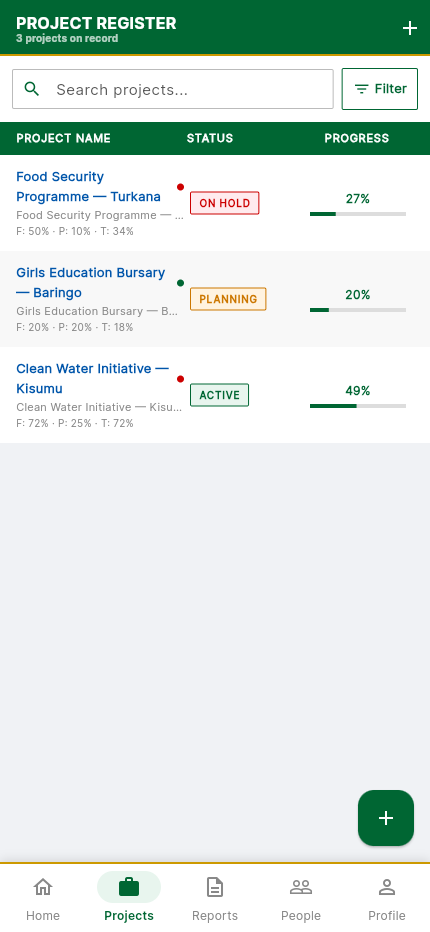
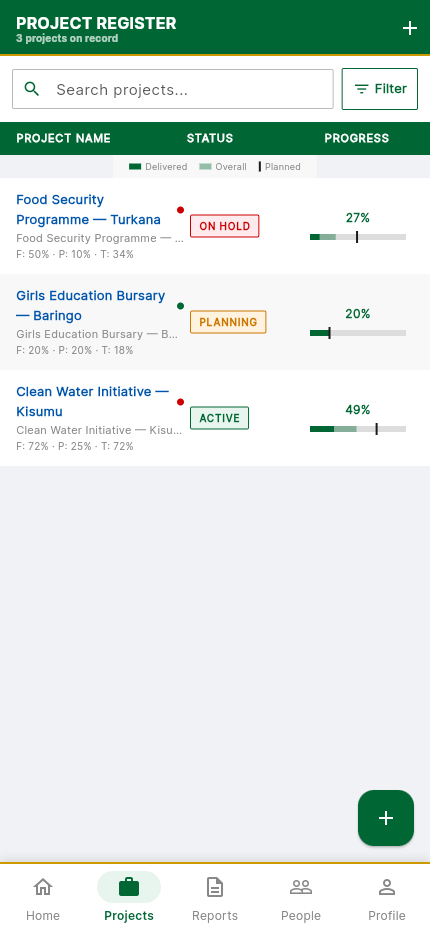
feat: EVM track on project list rows — earned-value band with a planned-value tick
The list bar showed composite progress only. It now draws physical (EV) as its
own band over the composite fill with a tick at planned value, so the tick has
the right quantity to be read against: physical past the tick means ahead of
plan, which is what SPI measures.

Claude-Session: https://claude.ai/code/session_01Bx6DSYntrQAXkWzdDAu9RR

diff --git a/mobile/lib/features/projects/widgets/evm_cards.dart b/mobile/lib/features/projects/widgets/evm_cards.dart
@@ -12,6 +12,161 @@ String formatKes(double value) {
   return 'KES ${value.toStringAsFixed(0)}';
 }
 
+// ── LIST PROGRESS TRACK ────────────────────────────────────────────────────
+
+/// Compact EVM track for list rows: composite fill, the physical (earned
+/// value) segment drawn over it, and a tick at planned value.
+///
+/// The tick is only meaningful against the *physical* segment — SPI is
+/// EV/PV — which is why physical is drawn as its own darker band rather than
+/// letting the composite fill stand in for delivery. Physical past the tick
+/// means ahead of the plan.
+class EvmProgressTrack extends StatelessWidget {
+  final Project project;
+
+  /// Track thickness; the tick overhangs it by [_tickOverhang] either side.
+  final double height;
+
+  static const double _tickOverhang = 3;
+  static const double _tickWidth = 2;
+
+  /// Identifies the planned-value tick, which is absent when PV is 0.
+  static const Key tickKey = Key('evm-planned-tick');
+
+  /// Identifies the earned-value (physical) band.
+  static const Key physicalBandKey = Key('evm-physical-band');
+
+  const EvmProgressTrack({super.key, required this.project, this.height = 6});
+
+  static double _fraction(double percent) => (percent / 100).clamp(0.0, 1.0);
+
+  @override
+  Widget build(BuildContext context) {
+    final composite = project.compositeFraction;
+    final physical = _fraction(project.physicalProgress);
+    final planned = _fraction(project.plannedValueProgress);
+    return Tooltip(
+      message: 'Delivered ${project.physicalProgress.toStringAsFixed(1)}% · '
+          'planned ${project.plannedValueProgress.toStringAsFixed(1)}% · '
+          'overall ${project.progressPercentage.round()}%',
+      child: SizedBox(
+        height: height + _tickOverhang * 2,
+        child: Stack(
+          alignment: Alignment.center,
+          // FractionallySizedBox + Align keep this free of LayoutBuilder,
+          // which cannot compute intrinsics and breaks inside IntrinsicHeight.
+          children: [
+            Container(height: height, color: AppColors.border),
+            _Band(widthFactor: composite, height: height, color: _compositeColor),
+            _Band(
+              key: physicalBandKey,
+              widthFactor: physical,
+              height: height,
+              color: AppColors.primary,
+            ),
+            if (planned > 0)
+              Align(
+                key: tickKey,
+                // -1 pins the tick's left edge to the track's left edge and
+                // +1 its right edge to the right, so it never spills out.
+                alignment: Alignment(planned * 2 - 1, 0),
+                child: Container(
+                  width: _tickWidth,
+                  height: height + _tickOverhang * 2,
+                  color: AppColors.textPrimary,
+                ),
+              ),
+          ],
+        ),
+      ),
+    );
+  }
+
+  /// Composite sits behind the earned-value band, so it is tinted to stay
+  /// visually subordinate to it.
+  static const Color _compositeColor = Color(0x66006633);
+}
+
+class _Band extends StatelessWidget {
+  final double widthFactor;
+  final double height;
+  final Color color;
+
+  const _Band({
+    super.key,
+    required this.widthFactor,
+    required this.height,
+    required this.color,
+  });
+
+  @override
+  Widget build(BuildContext context) => Align(
+        // The Align is load-bearing: a bare FractionallySizedBox is sized to
+        // its factor and then positioned by the Stack's own alignment, which
+        // centres the band instead of anchoring it to the left of the track.
+        alignment: Alignment.centerLeft,
+        child: FractionallySizedBox(
+          alignment: Alignment.centerLeft,
+          widthFactor: widthFactor,
+          child: Container(height: height, color: color),
+        ),
+      );
+}
+
+/// One-line key for [EvmProgressTrack], shown once under a list's column
+/// header rather than repeated on every row.
+class EvmTrackLegend extends StatelessWidget {
+  const EvmTrackLegend({super.key});
+
+  @override
+  Widget build(BuildContext context) {
+    return Container(
+      color: AppColors.surfaceVariant,
+      padding: const EdgeInsets.symmetric(horizontal: 16, vertical: 5),
+      child: Wrap(
+        alignment: WrapAlignment.end,
+        spacing: 12,
+        runSpacing: 2,
+        children: const [
+          _LegendKey(color: AppColors.primary, label: 'Delivered'),
+          _LegendKey(color: EvmProgressTrack._compositeColor, label: 'Overall'),
+          _LegendKey(
+              color: AppColors.textPrimary, label: 'Planned', isTick: true),
+        ],
+      ),
+    );
+  }
+}
+
+class _LegendKey extends StatelessWidget {
+  final Color color;
+  final String label;
+  final bool isTick;
+
+  const _LegendKey({
+    required this.color,
+    required this.label,
+    this.isTick = false,
+  });
+
+  @override
+  Widget build(BuildContext context) {
+    return Row(
+      mainAxisSize: MainAxisSize.min,
+      children: [
+        Container(
+          width: isTick ? 2 : 12,
+          height: isTick ? 10 : 6,
+          color: color,
+        ),
+        const SizedBox(width: 4),
+        Text(label,
+            style: const TextStyle(fontSize: 9, color: AppColors.textMuted)),
+      ],
+    );
+  }
+}
+
 // ── PROJECT PROGRESS ───────────────────────────────────────────────────────
 
 /// Official card showing the weighted composite progress: a circular

diff --git a/mobile/test/features/projects/project_health_card_test.dart b/mobile/test/features/projects/project_health_card_test.dart
@@ -7,6 +7,7 @@ Map<String, dynamic> _projectJson({
   required double physical,
   required double plannedValue,
   double? spi,
+  double composite = 27.0,
 }) =>
     {
       'id': 1,
@@ -15,12 +16,20 @@ Map<String, dynamic> _projectJson({
       'budget': '1000000.00',
       'status': 'active',
       'ngo': 1,
+      'progress_percentage': composite,
       'physical_progress': physical,
       'time_progress': 50.0,
       'planned_value_progress': plannedValue,
       'schedule_performance_index': spi,
       'health_status': 'critical',
     };
+
+/// Width factors of the two filled bands, in draw order (composite, then
+/// physical over it).
+List<double?> _bandWidthFactors(WidgetTester tester) => tester
+    .widgetList<FractionallySizedBox>(find.byType(FractionallySizedBox))
+    .map((b) => b.widthFactor)
+    .toList();
 
 void main() {
   test('parses planned_value_progress, defaulting to 0 when absent', () {
@@ -74,5 +83,75 @@ void main() {
     expect(find.text('No work scheduled yet'), findsOneWidget);
     expect(find.text('Earned 0.0% of budgeted work vs 0.0% planned'),
         findsOneWidget);
+  });
+
+  group('EvmProgressTrack', () {
+    Future<void> pumpTrack(WidgetTester tester, Project project) =>
+        tester.pumpWidget(
+          MaterialApp(
+            home: Scaffold(
+              body: Center(
+                child: SizedBox(
+                  width: 200,
+                  child: EvmProgressTrack(project: project),
+                ),
+              ),
+            ),
+          ),
+        );
+
+    testWidgets('draws composite and physical bands plus a planned tick',
+        (tester) async {
+      await pumpTrack(
+        tester,
+        Project.fromJson(
+          _projectJson(physical: 10.0, plannedValue: 49.0, composite: 27.0),
+        ),
+      );
+      expect(_bandWidthFactors(tester), [0.27, 0.10]);
+      // The tick's x maps 0-100% onto -1..1, so 49% sits just left of centre.
+      final tick = tester.widget<Align>(find.byKey(EvmProgressTrack.tickKey));
+      expect((tick.alignment as Alignment).x, closeTo(-0.02, 0.001));
+    });
+
+    testWidgets('anchors the bands to the left of the track', (tester) async {
+      // Regression: a bare FractionallySizedBox inside the Stack is centred
+      // by the Stack, which made every band float mid-track.
+      await pumpTrack(
+        tester,
+        Project.fromJson(
+          _projectJson(physical: 10.0, plannedValue: 49.0, composite: 27.0),
+        ),
+      );
+      final trackLeft = tester.getTopLeft(find.byType(EvmProgressTrack)).dx;
+      // The keyed widget is the full-width Align; the drawn band is its
+      // FractionallySizedBox child.
+      final band = tester.getRect(
+        find.descendant(
+          of: find.byKey(EvmProgressTrack.physicalBandKey),
+          matching: find.byType(FractionallySizedBox),
+        ),
+      );
+      expect(band.left, trackLeft);
+      expect(band.width, closeTo(200 * 0.10, 0.5));
+    });
+
+    testWidgets('omits the tick when nothing was planned yet', (tester) async {
+      await pumpTrack(
+        tester,
+        Project.fromJson(_projectJson(physical: 0, plannedValue: 0)),
+      );
+      expect(find.byKey(EvmProgressTrack.tickKey), findsNothing);
+    });
+
+    testWidgets('clamps over-100% values to a full track', (tester) async {
+      await pumpTrack(
+        tester,
+        Project.fromJson(
+          _projectJson(physical: 140.0, plannedValue: 130.0, composite: 120.0),
+        ),
+      );
+      expect(_bandWidthFactors(tester), [1.0, 1.0]);
+    });
   });
 }

diff --git a/mobile/lib/features/projects/screens/projects_list_screen.dart b/mobile/lib/features/projects/screens/projects_list_screen.dart
@@ -180,6 +180,8 @@ class _ProjectsListScreenState extends State<ProjectsListScreen> {
               ],
             ),
           ),
+          // Legend: without it the tick on each row's track is unreadable.
+          const EvmTrackLegend(),
           Expanded(
             child: RefreshIndicator(
               color: AppColors.primary,
@@ -327,12 +329,7 @@ class _ProjectTableRow extends StatelessWidget {
                   const SizedBox(height: 4),
                   Padding(
                     padding: const EdgeInsets.symmetric(horizontal: 8),
-                    child: LinearProgressIndicator(
-                      value: progress,
-                      backgroundColor: AppColors.border,
-                      color: AppColors.primary,
-                      minHeight: 4,
-                    ),
+                    child: EvmProgressTrack(project: project),
                   ),
                 ],
               ),

diff --git a/HANDOVER.md b/HANDOVER.md
@@ -4,12 +4,12 @@
 describes the system as it stands and the things that are not obvious from the
 code.
 
-Last updated: 2026-07-21 · `main` @ `f438933` · working tree clean
+Last updated: 2026-07-21 · `main` @ `c431600` · working tree clean
 
 | | |
 |---|---|
 | Backend tests | **216 pass** (`pytest`, test_sqlite settings) |
-| Flutter tests | **50 pass**, `flutter analyze` 0 issues |
+| Flutter tests | **54 pass**, `flutter analyze` 0 issues |
 | Swagger | `/api/v1/docs/` — 0 warnings, 0 errors |
 | Phases | All 5 complete; work since then is post-phase improvement |
 
@@ -28,7 +28,7 @@ DJANGO_SETTINGS_MODULE=config.settings.test_sqlite pytest --tb=short -q
 DJANGO_SETTINGS_MODULE=config.settings.local_sqlite python manage.py runserver 0.0.0.0:8000
 DJANGO_SETTINGS_MODULE=config.settings.local_sqlite python manage.py seed_demo  # idempotent
 
-# Flutter (50 tests)
+# Flutter (54 tests)
 cd /Users/admin/Desktop/SmartNGO/mobile
 flutter analyze && flutter test
 flutter run -d chrome --dart-define=API_BASE_URL=http://localhost:8000/api/v1
@@ -108,6 +108,11 @@ gold #CC9900), Kenya 5-level location picker, shimmer loading everywhere.
 - `LayoutBuilder` cannot compute intrinsics — it crashes inside
   `IntrinsicHeight`; `ProjectProgressBar` uses `AnimatedFractionallySizedBox`.
 - Fixed-height shimmer placeholders must adapt their line count to the height.
+- A bare `FractionallySizedBox` inside a `Stack` is sized to its factor and
+  then positioned by the **Stack's** alignment — its own `alignment:` only
+  places its child within itself. Left-anchored bars need an enclosing
+  `Align` (this centred every band in `EvmProgressTrack`, and a width-factor
+  unit test did not catch it — the regression test asserts geometry).
 - All failure snackbars must route through `core/feedback.dart` — the default
   theme snackbar is success-green, so a raw error `SnackBar` reads as success.
 - `/notifications` is **not** a GoRouter route; it is pushed with
@@ -168,9 +173,9 @@ look at every frame, then copy into `docs/screenshots/`.
    → scroll one screen) is the newest thing to review.
 2. Backlog: monthly report series endpoint for a real 6-month chart; donor PDF
    download button; user detail/edit screen.
-3. `Project.plannedValueProgress` is parsed in Flutter but only the health card
-   uses it — a PV marker on the project-list progress bars is the natural next
-   use.
+3. The dashboard's Recent Projects rows still draw a plain composite bar; the
+   project list now uses `EvmProgressTrack`. Carrying it over would make the
+   two consistent.
 
 ## Blockers
 

diff --git a/PROGRESS.md b/PROGRESS.md
@@ -2,8 +2,8 @@
 
 **Current state snapshot.** Dated per-session entries live in `git log`.
 
-Last updated: 2026-07-21 · `main` @ `f438933`
-**Backend 216 tests · Flutter 50 tests · `flutter analyze` 0 issues · Swagger 0/0**
+Last updated: 2026-07-21 · `main` @ `c431600`
+**Backend 216 tests · Flutter 54 tests · `flutter analyze` 0 issues · Swagger 0/0**
 
 **All 5 build phases complete — the project is assessment-ready.** Everything
 since is post-phase improvement.
@@ -83,7 +83,12 @@ ribbon, table-style lists.
 **EVM UI** — `ProjectProgressCard` (composite ring + three dimension bars with
 detail lines), `ProjectHealthCard` (rating badge, CPI/SPI with plain-language
 readings and an "Earned X% of budgeted work vs Y% planned" footnote),
-`PhaseBudgetTable`, `HealthDot`, `PhaseManagementScreen`, milestone weights.
+`PhaseBudgetTable`, `HealthDot`, `PhaseManagementScreen`, milestone weights,
+and `EvmProgressTrack` on the project-list rows — composite fill with the
+physical (earned value) band over it and a tick at planned value, keyed by
+`EvmTrackLegend` under the column header. Physical is drawn as its own band
+because SPI is EV/PV: a tick read against the *composite* fill would not be a
+schedule reading.
 
 **Gap** — flat repository pattern rather than data/domain/presentation layers
 (D-006).
@@ -93,7 +98,7 @@ readings and an "Earned X% of budgeted work vs Y% planned" footnote),
 ## Verification state
 
 - Backend **216 tests** pass on SQLite test settings.
-- Flutter **50 tests** pass; `flutter analyze` 0 issues; `flutter build web` OK.
+- Flutter **54 tests** pass; `flutter analyze` 0 issues; `flutter build web` OK.
 - Live 4-role browser pass: every screen renders with zero console/API errors.
 - `docs/screenshots/` regenerated 2026-07-21 against the current build and the
   reseeded demo data (15 app frames + 2 Django verify-email pages).
@@ -111,5 +116,5 @@ readings and an "Earned X% of budgeted work vs Y% planned" footnote),
 - User detail/edit screen.
 - Key Kenya ward/location dicts by (constituency, ward) to fix same-named
   wards sharing one location list.
-- Surface `plannedValueProgress` beyond the health card (e.g. a PV marker on
-  project-list progress bars).
+- Consider carrying `EvmProgressTrack` into the dashboard's Recent Projects
+  rows, which still draw a plain composite bar.